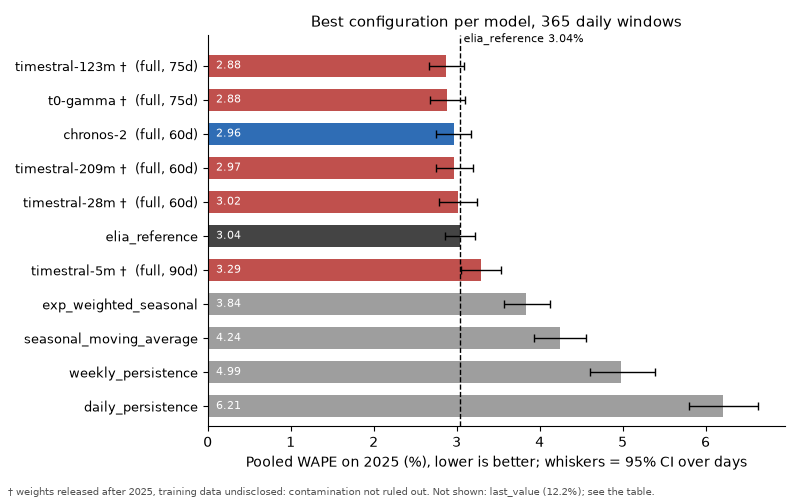
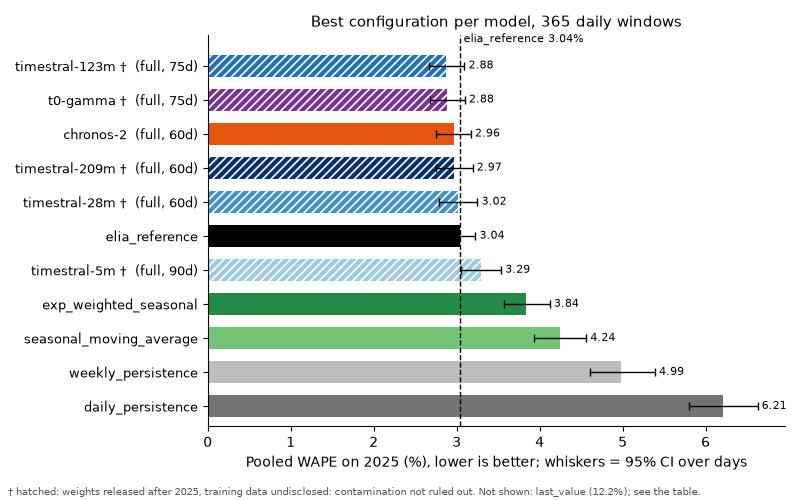
Chart: colour bars by card colour, hatch contamination-flagged models

diff --git a/scripts/plot_leaderboard.py b/scripts/plot_leaderboard.py
@@ -1,8 +1,8 @@
 """Plot pooled WAPE (best configuration per model) from the leaderboard results.
 
-Reads outputs/experiments/leaderboard/results_wide.csv (written by `bench summarize`) and saves
+Reads results/leaderboard/results_wide.csv (written by `bench summarize`) and saves
 docs/img/wape_by_model.png. Best configuration and the † contamination flag follow the same rules
-as the README results table.
+as the README results table. Bars use each model card's `color`; † models are hatched.
 
     uv run python scripts/plot_leaderboard.py
 """
@@ -18,7 +18,7 @@ import pandas as pd
 from tsbench.cards import load_all_cards
 from tsbench.config import ROOT, load_protocol
 
-RESULTS = ROOT / "outputs" / "experiments" / "leaderboard" / "results_wide.csv"
+RESULTS = ROOT / "results" / "leaderboard" / "results_wide.csv"
 OUT = ROOT / "docs" / "img" / "wape_by_model.png"
 # Omitted from the chart only (still in the README table): its ~12% WAPE would squash the axis.
 EXCLUDE = {"last_value"}
@@ -46,24 +46,22 @@ def main() -> None:
         return f"{name}  ({r.covariates}, {r['ctx (days)']}d)"
 
     ref_wape = float(best.loc[best.model == protocol.reference_model, "wape_pct"].iloc[0])
-    colors = [
-        "#444444" if m == protocol.reference_model
-        else "#9e9e9e" if f == "baseline"
-        else "#c0504d" if flagged(m)
-        else "#2f6db5"
-        for m, f in zip(best.model, best.family)
-    ]
+    colors = [cards[m].color for m in best.model]
+    hatches = ["////" if flagged(m) else "" for m in best.model]
 
     fig, ax = plt.subplots(figsize=(8, 5), dpi=100)
     fig.patch.set_facecolor("white")
     ax.set_facecolor("white")
     y = range(len(best))
     err = [best.wape_pct - best.wape_ci95_lo, best.wape_ci95_hi - best.wape_pct]
-    ax.barh(y, best.wape_pct, xerr=err, color=colors, height=0.65,
-            error_kw={"ecolor": "black", "elinewidth": 1, "capsize": 3})
+    plt.rcParams["hatch.linewidth"] = 1.2
+    bars = ax.barh(y, best.wape_pct, xerr=err, color=colors, height=0.65, edgecolor="white", linewidth=0,
+                   error_kw={"ecolor": "black", "elinewidth": 1, "capsize": 3})
+    for bar, h in zip(bars, hatches):
+        bar.set_hatch(h)
     ax.set_yticks(list(y), [label(r) for _, r in best.iterrows()], fontsize=9)
-    for yi, w in zip(y, best.wape_pct):
-        ax.text(0.1, yi, f"{w:.2f}", va="center", ha="left", fontsize=8, color="white")
+    for yi, w, hi in zip(y, best.wape_pct, best.wape_ci95_hi):
+        ax.text(hi + 0.05, yi, f"{w:.2f}", va="center", ha="left", fontsize=8, color="black")
     ax.axvline(ref_wape, color="black", linestyle="--", linewidth=1)
     ax.text(ref_wape, len(best) - 0.4, f" {protocol.reference_model} {ref_wape:.2f}%",
             va="bottom", ha="left", fontsize=8)
@@ -71,7 +69,7 @@ def main() -> None:
     ax.set_ylim(-0.6, len(best) - 0.1)
     ax.set_title("Best configuration per model, 365 daily windows", fontsize=11)
     ax.spines[["top", "right"]].set_visible(False)
-    note = "† weights released after 2025, training data undisclosed: contamination not ruled out."
+    note = "† hatched: weights released after 2025, training data undisclosed: contamination not ruled out."
     if len(dropped):
         omitted = ", ".join(f"{m} ({w:.1f}%)" for m, w in dropped.items())
         note += f" Not shown: {omitted}; see the table."
